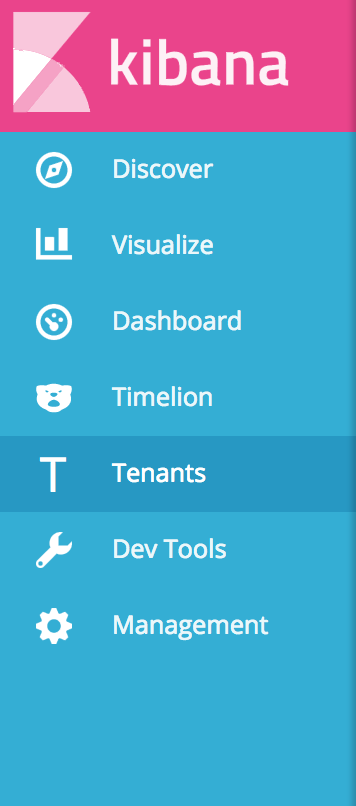
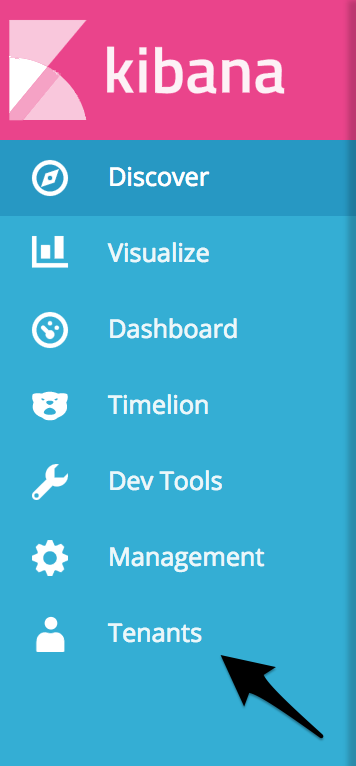
updated Kibana and MT docs for beta-3 of the multitenancy module

diff --git a/multitenancy.md b/multitenancy.md
@@ -1,10 +1,6 @@
-<!---
-Copryight 2017 floragunn GmbH
--->
-
 # Kibana Multitenancy
 
-**WARNING: Kibana multitenancy support is beta at the moment. Use it at your own risk, and do not use it in production yet!**
+**Kibana multitenancy support is beta at the moment. Use it at your own risk, and do not use it in production yet!**
 
 ## Overview
 Kibana does not support multi tenancy out of the box. This means that all stored objects, such as Dashboards, Visualizations and Saved Searches are stored in a global Kibana index.
@@ -56,17 +52,19 @@ Multi tenancy will not work properly if you install only one of the modules / pl
 
 Make sure you have a Search Guard version with multi tenancy support installed and configured. Search Guard supports multi tenancy from v12 onwards.
 
-**At the time of writing, the only available version is a beta snapshot for Elasticsearch 5.2.2:** 
+**At the time of writing, we offer beta versions for offline install only. Supported Elasticsearch versions: 5.3.0 and 5.2.2** 
 
-```
-bin/elasticsearch-plugin install -b com.floragunn:search-guard-5:5.2.2-11-mtbeta2
-```
+[Download Search Guard snapshot for 5.3.0](https://oss.sonatype.org/content/repositories/snapshots/com/floragunn/search-guard-5/5.3.x-HEAD-SNAPSHOT/search-guard-5-5.3.x-HEAD-20170405.211946-6.zip)
 
-Download the multi tenancy enterprise module, place it in the plugins/search-guard-5 folder of every node, and restart each node. 
+[Download Search Guard snapshot for 5.2.2](https://oss.sonatype.org/content/repositories/snapshots/com/floragunn/search-guard-5/5.2.x-HEAD-SNAPSHOT/search-guard-5-5.2.x-HEAD-20170405.211548-3.zip)
 
-**At the time of writing, the only available version is a beta snapshot for Elasticsearch 5.2.2:** 
+Download the multi tenancy enterprise module, and place it in the plugins/search-guard-5 folder of every node. After that, restart each node. 
 
-[Kibana Multitenancy module 5.2-1-beta2](https://oss.sonatype.org/content/repositories/releases/com/floragunn/dlic-search-guard-module-kibana-multitenancy/5.2-1-beta2/dlic-search-guard-module-kibana-multitenancy-5.2-1-beta2-jar-with-dependencies.jar)
+**At the time of writing, we offer beta versions for offline install only. Supported Elasticsearch versions: 5.3.0 and 5.2.2** 
+
+[Download Kibana Multitenancy module for 5.3.0](https://oss.sonatype.org/content/repositories/snapshots/com/floragunn/dlic-search-guard-module-kibana-multitenancy/5.3-1-beta3-SNAPSHOT/dlic-search-guard-module-kibana-multitenancy-5.3-1-beta3-20170405.211301-2-jar-with-dependencies.jar)
+
+[Download Kibana Multitenancy module for 5.2.2](https://oss.sonatype.org/content/repositories/snapshots/com/floragunn/dlic-search-guard-module-kibana-multitenancy/5.2-1-beta3-SNAPSHOT/dlic-search-guard-module-kibana-multitenancy-5.2-1-beta3-20170405.211221-1-jar-with-dependencies.jar)
 
 If everything is installed correctly, you should see the following entries in the elasticsearch logs on startup:
 
@@ -103,9 +101,9 @@ The following configuration keys are available:
 
 | Name  | Description  |
 |---|---|
-| searchguard.dynamic.kibana.multitenancy_enabled  |  boolean, enable or disable multi tenancy. Defaut: true|
-|  searchguard.dynamic.kibana.server_username |  String, the name of the Kibana server user as configured in your kibana.yml. The names must match in both configurations, otherwise multi tenancy will not work. Default: 'kibanaserver'|
-| searchguard.dynamic.kibana.index  | String, the name of the Kibana index as configured in your kibana.yml. The index name must match in both configurations, otherwise multi tenancy will not work. Default: '.kibana' |
+| searchguard.dynamic.kibana.multitenancy_enabled  |  boolean, enable or disable multi tenancy. Default: true|
+|  searchguard.dynamic.kibana.server_username |  String, the name of the Kibana server user as configured in your kibana.yml. The names must match in both configurations, otherwise multi tenancy will not work. Default: `kibanaserver`|
+| searchguard.dynamic.kibana.index  | String, the name of the Kibana index as configured in your kibana.yml. The index name must match in both configurations, otherwise multi tenancy will not work. Default: `.kibana` |
 | searchguard.dynamic.kibana.do\_not\_fail\_on\_forbidden  | boolean, if enabled Search Guard will remove content from the search result a user is not allowed to see silently. If disabled, a security exceptions is returned. Default: false  |
     
 #### Adding tenants
@@ -138,11 +136,14 @@ The installation procedure is the same as for any other Kibana plugin:
 * cd into your Kibana installaton directory
 * Execute: `bin/kibana-plugin install file:///path/to/searchguard-kibana-<version>.zip` 
 
-**At the time of writing, the only available version is a beta snapshot for Kibana 5.2.2:** 
+**At the time of writing, we offer beta versions for offline install only. Supported Kibana versions: 5.3.0 and 5.2.2**
 
-[Search Guard Kibana plugin 5.2.2-beta2](https://github.com/floragunncom/search-guard-kibana-plugin/releases/tag/v5.2.2-beta2)
+[Search Guard Kibana plugin for Kibana 5.3.0](https://github.com/floragunncom/search-guard-kibana-plugin/releases/download/v5.3.0-beta3/searchguard-kibana-5.3.0-beta3.zip)
 
-### Kibana: Configuration
+[Search Guard Kibana plugin for Kibana 5.2.2](https://github.com/floragunncom/search-guard-kibana-plugin/releases/download/v5.2.2-beta3/searchguard-kibana-5.2.2-beta3.zip)
+
+
+### Kibana: Plugin Configuration
 
 Enable the multi tenancy feature in `kibana.yml` by adding:
 
@@ -155,6 +156,8 @@ In addition, Kibana requires you to whitelist all HTTP headers that should be pa
 ```
 elasticsearch.requestHeadersWhitelist: ["sg_tenant", ..., ...]
 ```
+
+If this header is not whitelisted, an error message is logged on startup and the status of Kibana will be red.
 
 Check that both the Kibana server user and the Kibana index name matches in both kibana.yml and sg_config. The contents of the following keys must match:
 
@@ -172,17 +175,62 @@ kibana.yml: kibana.index
 sg_config: searchguard.dynamic.kibana.index 
 ```
 
+### Kibana: Tenant Configuration
+
+By default, Search Guard offers two default tenants for each user, Global and Private. The Global tenant is shared between all users, and uses the Kibana index as configured in `kibana.yml`. Thus, all dashboards and visualizations that have been created prior to installing multi tenancy can be found in this tenant.
+
+The Private tenant is meant as a users private space, and thus is shared by no one.
+
+You can enable and disable these tenants by the following `kibana.yml` configuration keys:
+
+| Name  | Description  |
+|---|---|
+| searchguard.multitenancy.tenants.enable_global  |  boolean, enable or disable the global tenant. Default: true|
+| searchguard.multitenancy.tenants.enable_private  |  boolean, enable or disable the private tenant. Default: true|
+
+**Note that each user needs to have at least one tenant configured, otherwise Search Guard does not know which tenant to use. If you disable both the Global and Private tenant, and the user does not have any other tenants configured, she will not be able to login.**
+
 ## Selecting tenants in Kibana
 
 If the plugin is installed correctly, you will see a new entry in the left navigation panel called "Tenants":
 
-<img src="images/kibana_mt_nav.png" height="400" style="text-align:center">
+<p align="center">
+<img src="images/kibana_mt_nav.png" height="400" style="border: 1px solid"/>
+</p>
 
 After clicking on it, you will see all available tenants for the currently logged in user. Select the tenant you want to work with:
 
-<img src="images/kibana_mt.png" >
+<p align="center">
+<img src="images/kibana_mt_select_tenants.png" style="border: 1px solid"/>
+</p>
 
-All saved objects will be placed in the selected tenant.
+All saved objects will be placed in the selected tenant. Search Guard remembers the last selected tenant per user, so you do not need to change it every time you log in.
+
+## Troubleshooting
+
+### Kibana: Header not whitelisted
+
+During Kibana startup, Search Guard checks whether the `sg_tenant` header has been added to the `elasticsearch.requestHeadersWhitelist` condiguration key in `kibana.yml`. If this is not the case, the state of the pluin will be red, and you will see an error page when trying to access Kibana.
+
+### Elasticsearch: Multi tenancy not enabled
+
+If the Search Guard multitenancy module is not installed or is disabled, you will see an error message on the "Tenants" page, like:
+
+<p align="center">
+<img src="images/kibana_mt_disabled.png" style="border: 1px solid"/>
+</p>
+
+Make sure the enterprise module is installed, and also check that   `searchguard.dynamic.kibana.multitenancy_enabled` is not set to `false` in `sg_config.yml`.
+
+### Kibana and Elasticsearch: Configuration mismatch
+
+If either the configured Kibana server username or the configured Kibana index name do not match on Elasticsearch and Kibana, an error will be displayed on the "Tenants" page, like:
+
+<p align="center">
+<img src="images/kibana_config_mismatch.png" style="border: 1px solid"/>
+</p>
+
+Make sure the respective settings match in `sg_config.yml` (Elasticsearch) and `kibana.yml` (Kibana).
 
 ## Under the hood: Index rewriting, Snapshot & Restore
 

diff --git a/kibana.md b/kibana.md
@@ -42,7 +42,7 @@ The Search Guard Kibana plugin provides session management features for Kibana. 
 |  searchguard.cookie.secure |  boolean, if set to true cookies are only stored when using HTTPS. Default: false. |
 | searchguard.cookie.name  | String, name of the cookie. Default: 'searchguard_authentication'  |
 | searchguard.cookie.password  | String, key used to encrypt the cookie. Must be at least 32 characters long. Default: 'searchguard\_cookie\_default\_password'  |
-| searchguard.cookie.ttl  | Integer, lifetime of the cookie. Can be set to null for session cookie. Default: 1 hour  |
+| searchguard.cookie.ttl  | Integer, lifetime of the cookie. Can be set to 0 for session cookie. Default: 1 hour  |
 | searchguard.session.ttl  | Integer, lifetime of the session. If set, the user is prompted to log in again after the configured time, regardless of the cookie. Default: 1 hour  |
 | searchguard.session.keepalive  | boolean, if set to true the session lifetime is extended by `searchguard.session.ttl` upon each request. Default: true   |
 
@@ -120,6 +120,25 @@ console.proxyConfig:
     ssl:
       ca: "/path/to/your/root-ca.pem"
 ```
+
+### Customising the login page
+
+Since v2, you can fully customize the login page to adapt it to your needs. Per default, the login page shows the following elements:
+
+<p align="center">
+<img src="images/kibana_login.jpg" style="width: 60%;border: 1px solid"/>
+</p>
+
+Use the following setting in kibana.yml to customize one or more elements:
+
+| Name  | Description  |
+|---|---|
+| searchguard.basicauth.login.showbrandimage  |  boolean, show or hide the brand image, Default: true|
+|  searchguard.basicauth.login.brandimage |  String, `src` of the brand image. Should be an absolute URL to your brand image, e.g. `http://mycompany.com/mylogo.jpg`.|
+| searchguard.cookie.name  | String, name of the cookie. Default: 'searchguard_authentication'  |
+| searchguard.basicauth.login.title  | String, title of the login page. |
+| searchguard.basicauth.login.subtitle  | String, subtitle of the login page. |
+| searchguard.basicauth.login.buttonstyle  | String, style attribute of the login button.  |
       
 ## Configuring Elasticsearch
 
